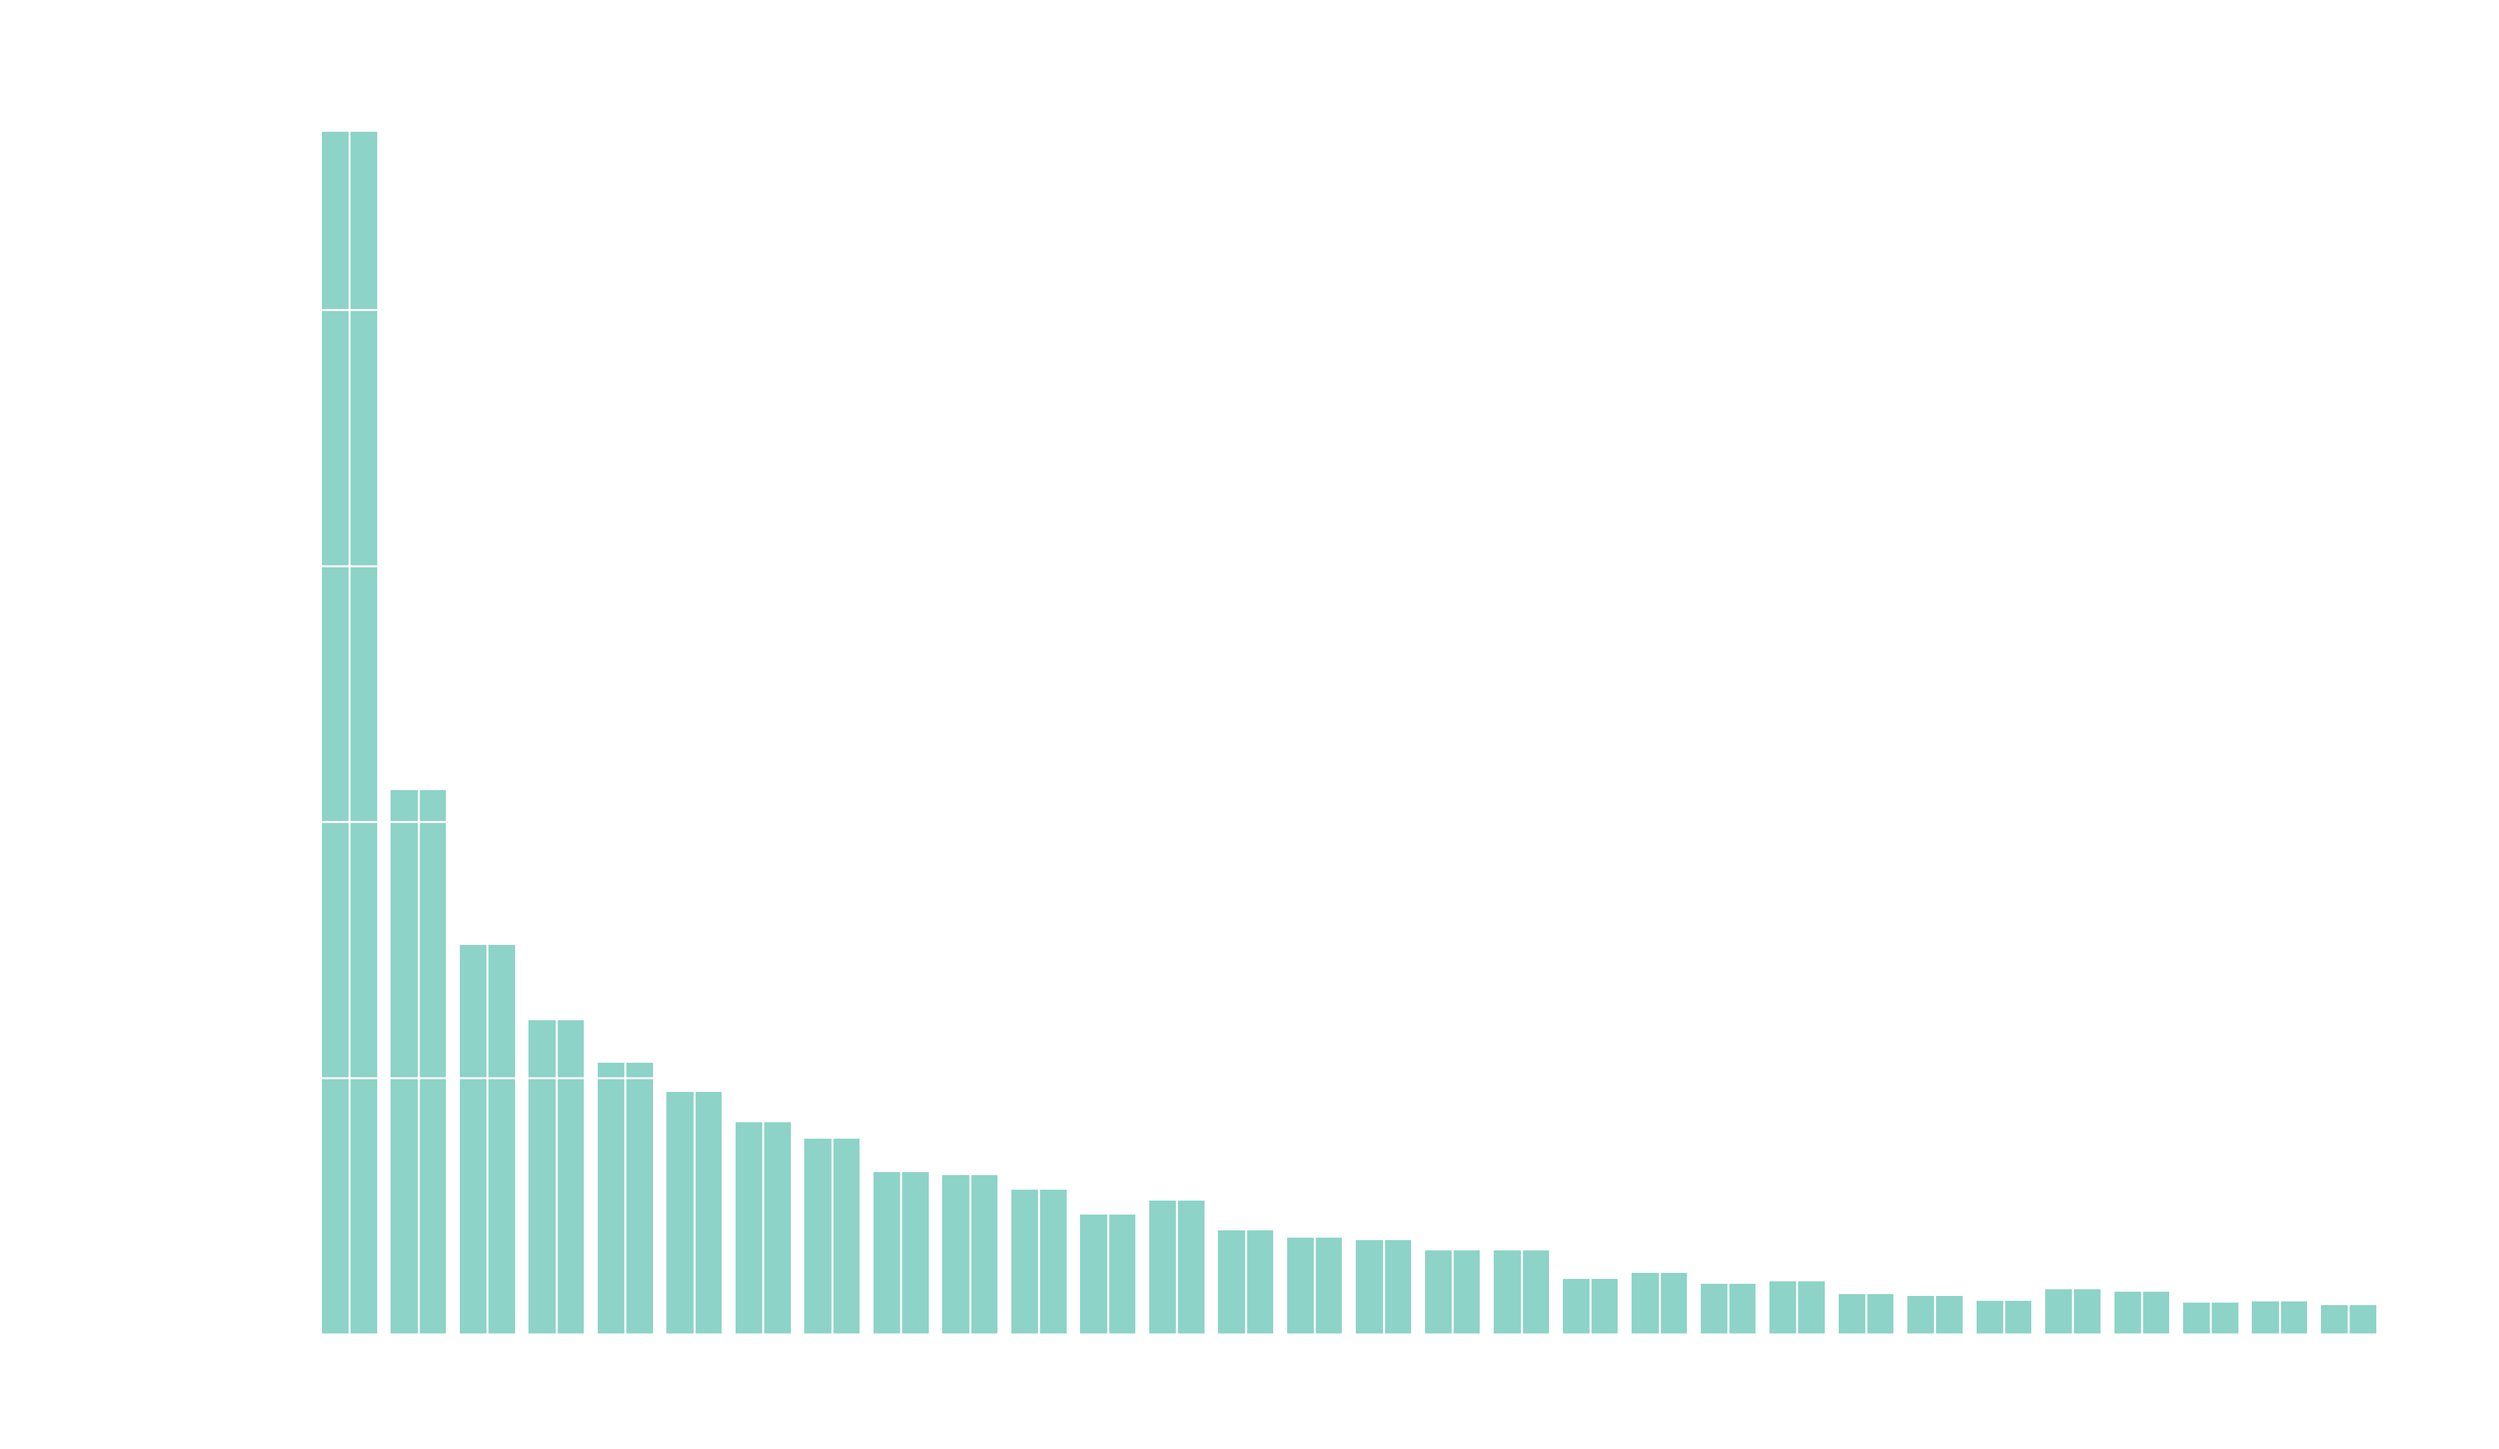
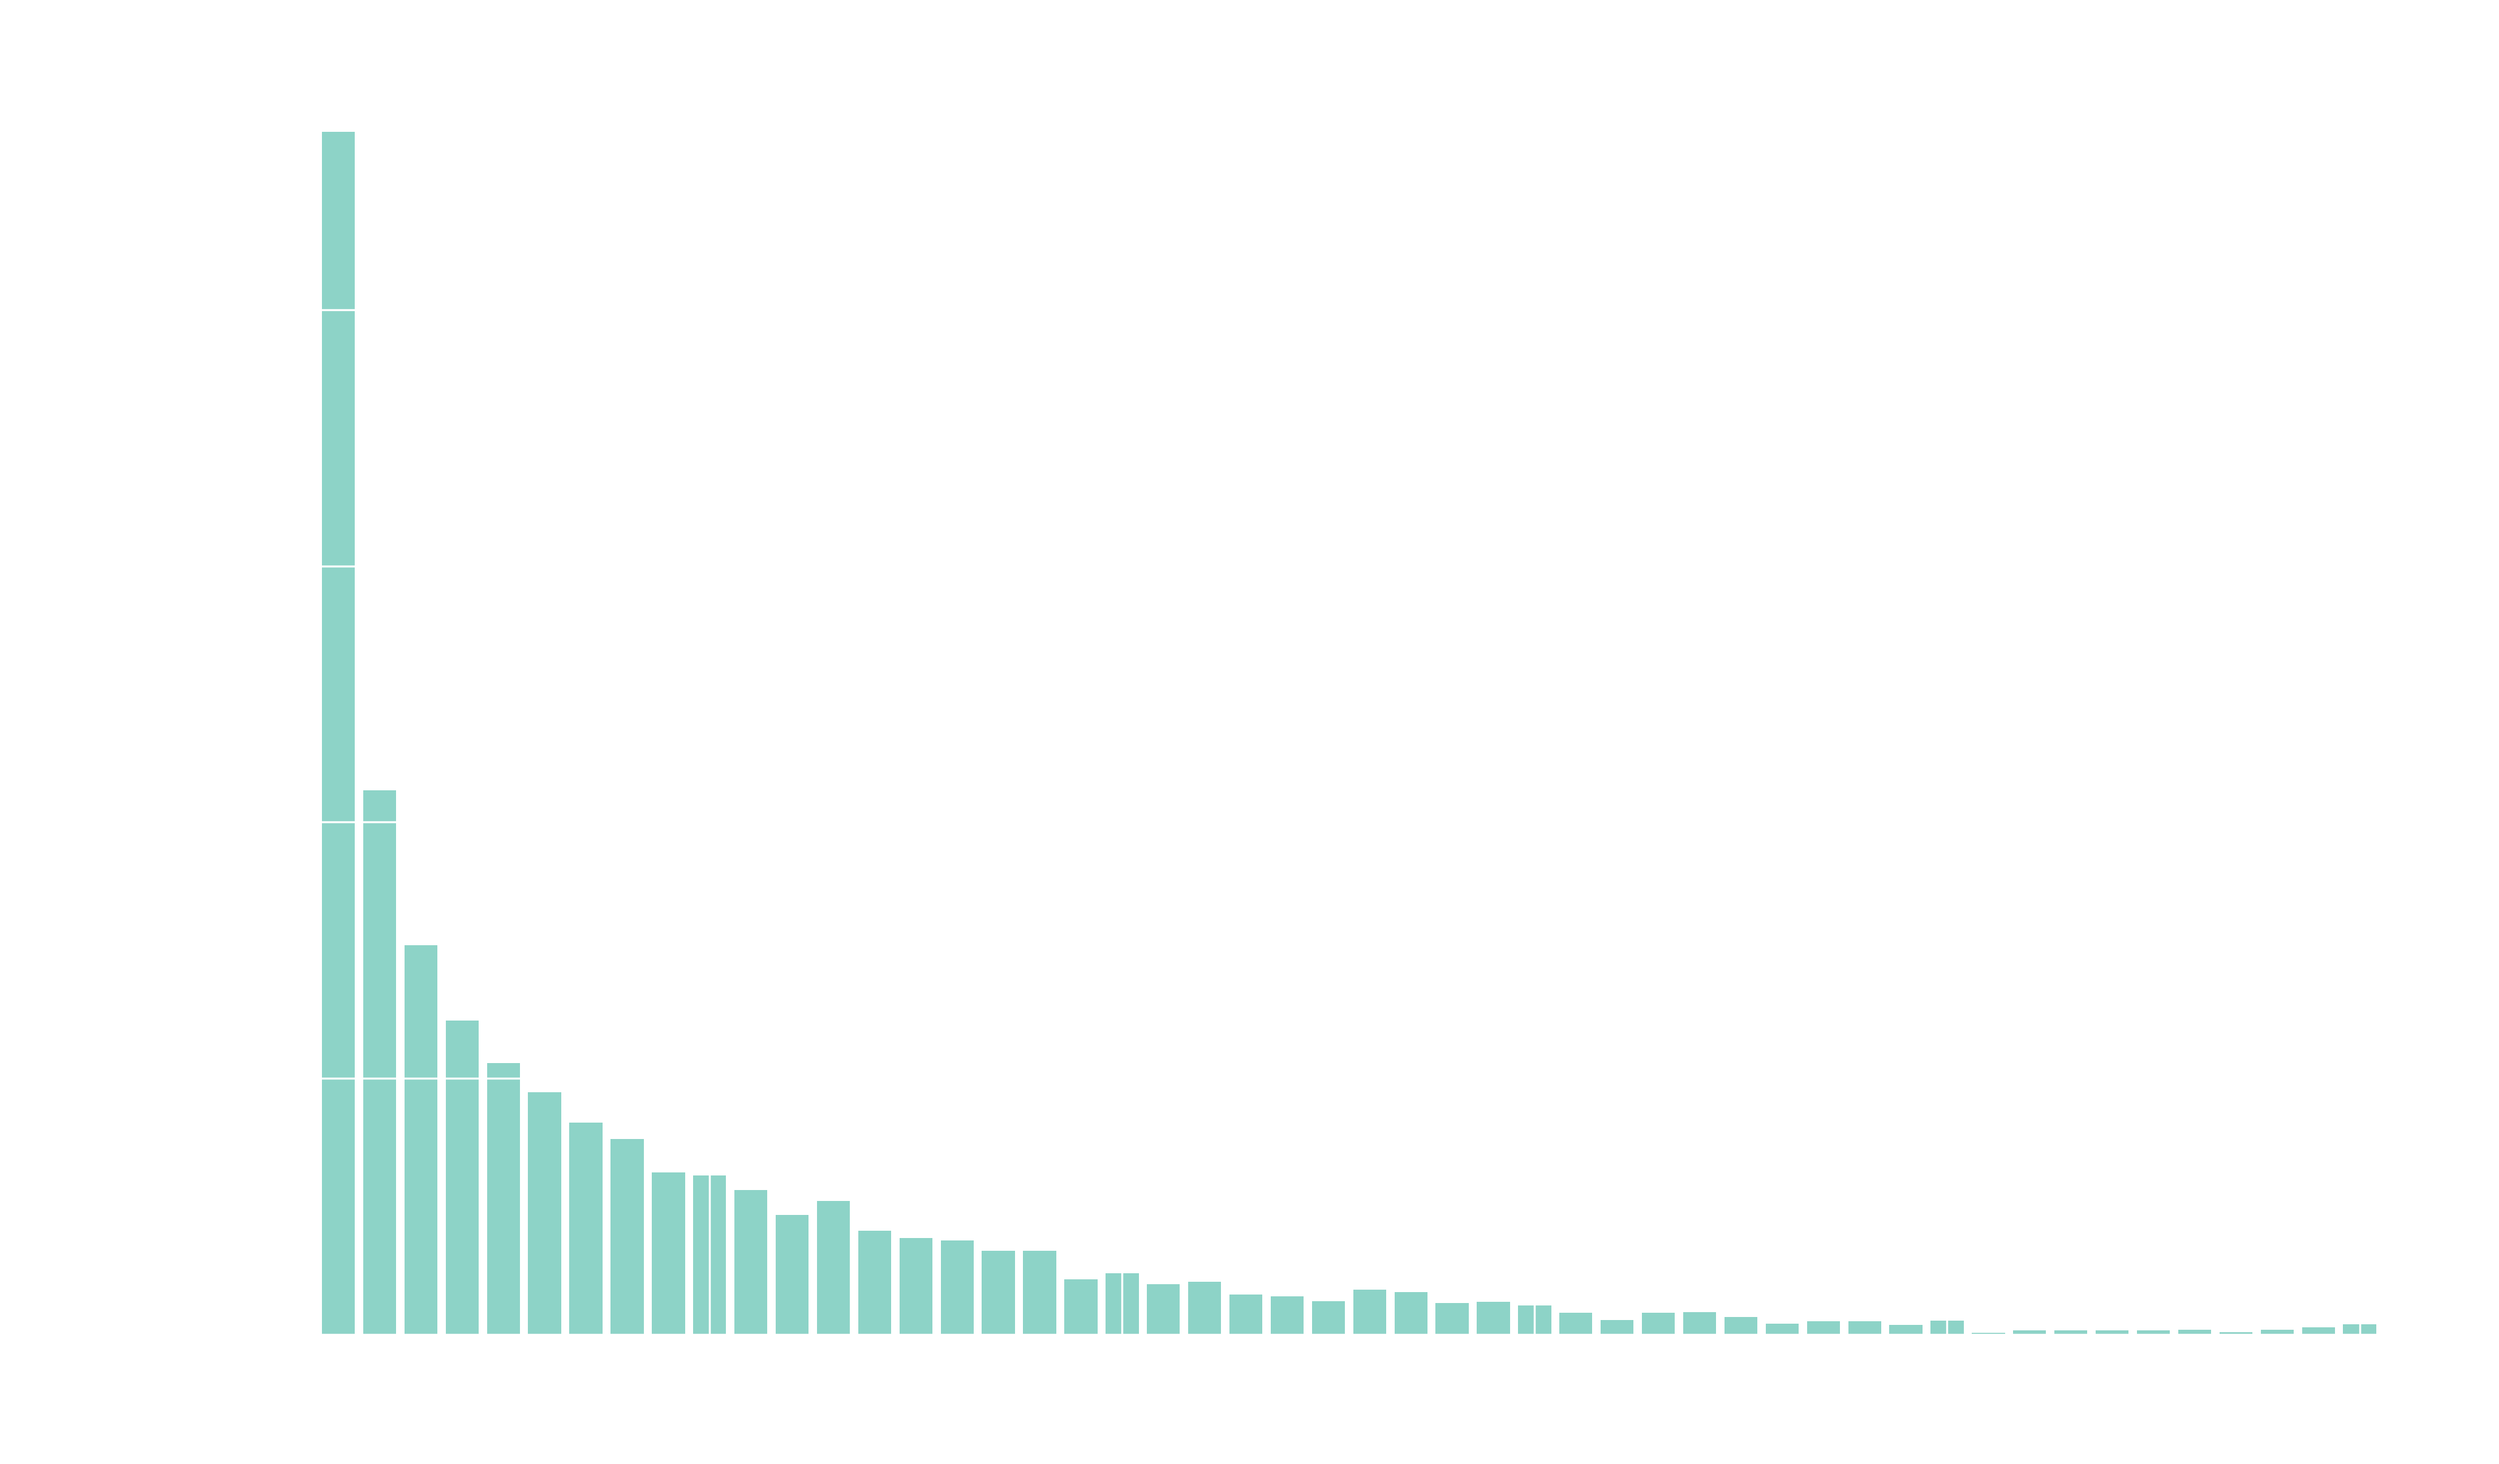
few last edits. removed other posts

Changed region(s): [[0.1245, 0.093, 0.9645, 0.9304]]

diff --git a/_posts/2020-01-06-reddit-jokes.md b/_posts/2020-01-06-reddit-jokes.md
@@ -1,0 +1,95 @@
+---
+title: Reposts of jokes on reddit.com/r/jokes
+header:
+  overlay_image: assets/images/r_jokes/snoopng_cropped.png
+toc: true
+author: Abhilash Sarwade
+excerpt: Evaluation of number of reposts using TF-IDF 
+---
+
+# Objective
+
+To quantitatively find out what fraction of jokes submitted on [reddit.com/r/jokes](https://www.reddit.com/r/Jokes/) are reposts.
+
+# Introduction
+
+**Reddit** is an American social news aggregation, web content rating, and discussion website where registered members submit content to the site such as links, text posts, and images, which are then voted up or down by other members. Posts are organized by subject into user-created boards called "subreddits", which cover a variety of topics including news, science, movies, video games, music, books, fitness, food, and image-sharing.
+
+One of the popular subreddit is [r/jokes](https://www.reddit.com/r/Jokes/) with 17.6 million "humorists"  subscribed. It is currently 19th largest subreddit with about 1500 jokes submitted per month (greater than 50 upvotes). 
+
+{% include figure image_path="/assets/images/r_jokes/no_jokes_month.png" alt="n_jokes_month" caption="Activity on r/jokes since the subreddit's birth." %}
+
+# Reposting Problem
+
+Though r/jokes is very large subreddit, it lacks the originality in submitted jokes. One of the running gags on the subreddit is that, every joke reaching the front page is a repost. 
+
+Example:
+
+<blockquote class="reddit-card" data-card-created="1578141860"><a href="https://www.reddit.com/r/Jokes/comments/5vt0bn/girls_call_me_ugly_until_they_find_out_how_much/">Girls call me ugly until they find out how much money i make.</a> from <a href="http://www.reddit.com/r/Jokes">r/Jokes</a></blockquote>
+<script async src="//embed.redditmedia.com/widgets/platform.js" charset="UTF-8"></script>
+<blockquote class="reddit-card" data-card-created="1578141883"><a href="https://www.reddit.com/r/Jokes/comments/aysxx6/girls_used_to_call_me_ugly_until_they_found_out/">Girls used to call me ugly until they found out how much money I make.</a> from <a href="http://www.reddit.com/r/Jokes">r/Jokes</a></blockquote>
+<script async src="//embed.redditmedia.com/widgets/platform.js" charset="UTF-8"></script>
+<blockquote class="reddit-card" data-card-created="1578141900"><a href="https://www.reddit.com/r/Jokes/comments/bugejh/women_call_me_ugly_until_they_find_out_how_much/">Women call me ugly until they find out how much money I make.</a> from <a href="http://www.reddit.com/r/Jokes">r/Jokes</a></blockquote>
+<script async src="//embed.redditmedia.com/widgets/platform.js" charset="UTF-8"></script>
+<blockquote class="reddit-card" data-card-created="1578141914"><a href="https://www.reddit.com/r/Jokes/comments/crclls/a_women_called_me_ugly_until_she_found_how_much/">A women called me ugly until she found how much money I make.</a> from <a href="http://www.reddit.com/r/Jokes">r/Jokes</a></blockquote>
+<script async src="//embed.redditmedia.com/widgets/platform.js" charset="UTF-8"></script>
+So, as stated in objective, I wanted to quantitatively find out exactly what fraction of submitted jokes are repost.  
+
+# Finding reposted jokes
+
+## Basic Approach
+
+I started with very basic approach to find if the given joke is already submitted. If the given joke matched exactly, character for character, with already submitted joke then it's a repost. So, even if one of the character is here or there, the logic will not find it as duplicate. So according to this basic approach, all the four jokes in the example will be considered as different joke.
+
+{% include figure image_path="/assets/images/r_jokes/repetition_basic.png" alt="basic" caption="Total of 3562 jokes were repeated, character for character, at least once." %}
+
+Even then, I found that there are 4.46% (3562) of the jokes are repeated character for character at least once. That's a staggering number. But the approach is definitely flawed as one can see from the example. So, I needed an approach which can take care of small variations.
+
+
+
+## Advanced Approach
+
+For more advanced approach, I used [Vector Space Model](https://en.wikipedia.org/wiki/Vector_space_model) which represents any text document as an algebraic vector. So, every joke is now can be represented as an vector. Now, the similarity between two jokes can be computed as one can compute similarity between two vector i.e. by using cosine dot product. 
+I used [scikit-learn's TF-IDF vectorizer](https://scikit-learn.org/stable/modules/generated/sklearn.feature_extraction.text.TfidfVectorizer.html) to vectorize the jokes and [cosine similarity matrix](https://scikit-learn.org/stable/modules/generated/sklearn.metrics.pairwise.cosine_similarity.html) to find out the similarity. In depth discussion about these functions can be found on [Christian S. Perone's blogpost](http://blog.christianperone.com/2011/09/machine-learning-text-feature-extraction-tf-idf-part-i/). 
+
+To demonstrate this method, take the example above. There are four similar jokes, and let us add one more "control" dissimilar joke to test the method. 
+
+<blockquote class="reddit-card" data-card-created="1578205073"><a href="https://www.reddit.com/r/Jokes/comments/ivui2/woman_looking_in_the_mirror_broke_down_to_tears/">Woman looking in the mirror broke down to tears. Told her husband she looks fat, old, and ugly, said a compliment would make her feel better...</a> from <a href="http://www.reddit.com/r/Jokes">r/Jokes</a></blockquote>
+<script async src="//embed.redditmedia.com/widgets/platform.js" charset="UTF-8"></script>
+This is a good choice for control joke, as it has some words common with original joke. The similarity matrix between these jokes and one control joke is:
+
+|        | Joke 1 | Joke 2 | Joke 3 | Joke 4 | Control Joke |
+| :----: | :----: | :----: | :----: | :----: | :----------: |
+| Joke 1 |   1    |  0.87  |  0.90  |  0.81  |     0.24     |
+| Joke 2 |  0.87  |   1    |  0.73  |  0.70  |     0.17     |
+| Joke 3 |  0.90  |  0.73  |   1    |  0.90  |     0.24     |
+| Joke 4 |  0.81  |  0.70  |  0.90  |   1    |     0.22     |
+
+As one can see from the table, the similarity score between first four jokes is at least 0.7. Whereas, the dissimilar control joke has similarity score of around 0.2. So, this approach seems to be able to handle slight variations within similar jokes.
+
+# On to the Results
+
+## Repetition of Jokes
+
+{% include figure image_path="/assets/images/r_jokes/repetition_advanced.png" alt="advanced" caption="70.61% of the jokes were repeated at least once." %}
+
+As you can see from the above graph, 70.61% of the jokes were posted more than once. There are only ~38k unique jokes out of analyzed ~79k jokes.
+
+## Extended Graph
+
+{% include figure image_path="/assets/images/r_jokes/repetition_advanced_ext.png" alt="advanced_ext" caption="Around 200 jokes have been posted 50 times." %} 
+
+## Most submitted joke
+
+The following joke was submitted 54 times!
+
+<blockquote class="reddit-card" data-card-created="1578233219"><a href="https://www.reddit.com/r/Jokes/comments/4maoti/a_father_buys_a_lie_detector_robot_that_slaps/">A father buys a lie detector robot that slaps people when they lie.</a> from <a href="http://www.reddit.com/r/Jokes">r/Jokes</a></blockquote>
+<script async src="//embed.redditmedia.com/widgets/platform.js" charset="UTF-8"></script>
+
+# Limitations 
+
+Short and template jokes are very difficult to differentiate. Knock knock jokes, how many X does it take to change a lightbulb, are typical examples. Although, these jokes are different essentially, the logic I used clubbed them together.
+
+# Conclusion
+
+Around 70% of the jokes submitted on reddit.com/r/jokes are posted more than once. There are some jokes which have been posted 50 times. Only ~38k out of  ~79k jokes are unique.
